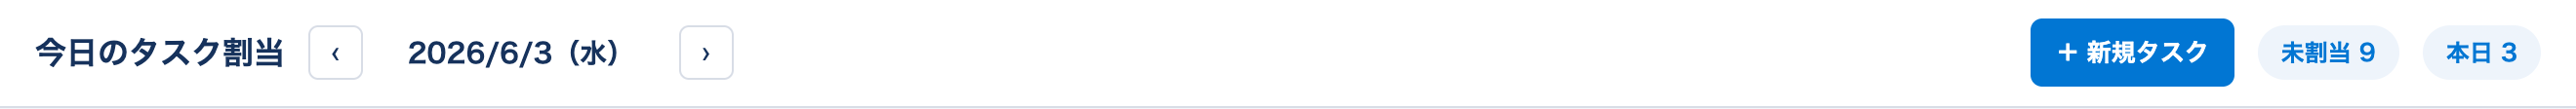
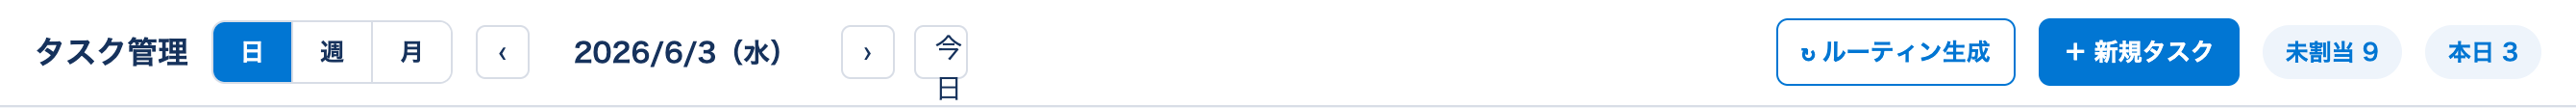
デモ拡張＋マニュアル更新: 週/月ビュー・ルーティン生成を反映
- index.html: 日/週/月切替、週ビュー、月ビュー、ルーティン生成ボタンを追加
- manual.html / manual-images: 週・月ビュー・ルーティンのスクショと手順を反映
- 繰り返しタスクを「実装済み」に更新

diff --git a/index.html b/index.html
@@ -126,6 +126,51 @@
     .panel-body.tl-body{max-height:70vh;}
     .panel-head .hint{display:none;}
   }
+  /* ===== ビュー切替 ===== */
+  .view-toggle{display:inline-flex;border:1px solid var(--line);border-radius:7px;overflow:hidden;}
+  .vbtn{border:none;background:#fff;color:var(--ink);padding:6px 14px;font-size:12.5px;font-weight:700;cursor:pointer;border-right:1px solid var(--line);}
+  .vbtn:last-child{border-right:none;}
+  .vbtn.active{background:var(--accent);color:#fff;}
+  .today-btn{border:1px solid var(--line);background:#fff;border-radius:5px;padding:0 10px;height:28px;font-size:12px;cursor:pointer;color:var(--ink);margin-left:4px;}
+  /* ===== 週ビュー ===== */
+  .weekwrap{display:grid;grid-template-columns:repeat(7,1fr);gap:8px;padding:14px 18px;}
+  .wk-col{background:#fff;border:1px solid var(--line);border-radius:8px;overflow:hidden;min-height:220px;display:flex;flex-direction:column;}
+  .wk-col.wknd{background:#fcfdff;}
+  .wk-head{padding:7px 8px;border-bottom:1px solid var(--line);background:#fafcfe;cursor:pointer;text-align:center;}
+  .wk-head.today{background:var(--accent);color:#fff;}
+  .wk-head.wknd .wk-wd{color:var(--p1);}
+  .wk-wd{font-size:11px;font-weight:700;margin-right:4px;}
+  .wk-d{font-size:13px;font-weight:800;}
+  .wk-total{display:block;font-size:10.5px;color:var(--muted);margin-top:2px;}
+  .wk-head.today .wk-total{color:#e6f0fb;}
+  .wk-body{padding:6px;display:flex;flex-direction:column;gap:6px;overflow-y:auto;max-height:62vh;}
+  .wk-empty{color:#c4cdd9;text-align:center;font-size:18px;padding:10px 0;}
+  .wk-task{border:1px solid var(--line);border-left:4px solid var(--accent);border-radius:6px;padding:5px 7px;background:#fff;}
+  .wk-task.p1{border-left-color:var(--p1);} .wk-task.p2{border-left-color:var(--p2);} .wk-task.p3{border-left-color:var(--p3);}
+  .wk-task.done{opacity:.6;} .wk-task.running{box-shadow:0 0 0 2px rgba(11,122,59,.35);}
+  .wk-time{font-size:10px;color:var(--muted);font-weight:600;}
+  .wk-title{font-size:12px;font-weight:700;line-height:1.25;margin:1px 0;}
+  .wk-task.done .wk-title{text-decoration:line-through;}
+  .wk-sub{font-size:10px;color:var(--accent);white-space:nowrap;overflow:hidden;text-overflow:ellipsis;}
+  /* ===== 月ビュー ===== */
+  .monthwrap{padding:14px 18px;}
+  .m-dow{display:grid;grid-template-columns:repeat(7,1fr);gap:6px;margin-bottom:6px;}
+  .m-dow-c{text-align:center;font-size:11.5px;font-weight:700;color:var(--muted);}
+  .m-dow-c:nth-child(6),.m-dow-c:nth-child(7){color:var(--p1);}
+  .m-week{display:grid;grid-template-columns:repeat(7,1fr);gap:6px;margin-bottom:6px;}
+  .mcell{background:#fff;border:1px solid var(--line);border-radius:7px;min-height:96px;padding:5px 6px;cursor:pointer;display:flex;flex-direction:column;gap:2px;}
+  .mcell.out{background:#f7f9fc;color:#aab4c2;}
+  .mcell.wknd{background:#fcfdff;}
+  .mcell.today{border-color:var(--accent);box-shadow:inset 0 0 0 1px var(--accent);}
+  .m-top{display:flex;justify-content:space-between;align-items:center;}
+  .m-day{font-size:12.5px;font-weight:800;}
+  .mcell.out .m-day{font-weight:600;}
+  .m-cnt{font-size:10px;color:var(--accent);font-weight:700;}
+  .m-hrs{font-size:10px;color:var(--muted);}
+  .mi{font-size:10px;line-height:1.3;white-space:nowrap;overflow:hidden;text-overflow:ellipsis;padding-left:6px;border-left:3px solid var(--accent);border-radius:2px;}
+  .mi.p1{border-left-color:var(--p1);} .mi.p2{border-left-color:var(--p2);} .mi.p3{border-left-color:var(--p3);}
+  .m-more{font-size:9.5px;color:var(--muted);}
+  @media (max-width:840px){ .weekwrap{grid-template-columns:1fr;} .mcell{min-height:60px;} .mi{display:none;} }
 </style>
 </head>
 <body>
@@ -138,16 +183,23 @@
 </header>
 
 <div class="toolbar">
-  <h1>今日のタスク割当</h1>
+  <h1>タスク管理</h1>
+  <div class="view-toggle">
+    <button class="vbtn active" id="vbDay" onclick="setView('day')">日</button>
+    <button class="vbtn" id="vbWeek" onclick="setView('week')">週</button>
+    <button class="vbtn" id="vbMonth" onclick="setView('month')">月</button>
+  </div>
   <div class="date-nav">
-    <button onclick="shiftDay(-1)">‹</button>
+    <button onclick="shiftPeriod(-1)">‹</button>
     <span class="cur" id="curDate"></span>
-    <button onclick="shiftDay(1)">›</button>
+    <button onclick="shiftPeriod(1)">›</button>
+    <button class="today-btn" onclick="goToday()">今日</button>
   </div>
   <span class="spacer"></span>
+  <button class="btn ghost" id="routineBtn" onclick="routineGenerate()">↻ ルーティン生成</button>
   <button class="btn" onclick="openNew()">＋ 新規タスク</button>
-  <span class="pill">未割当 <b id="pillUnassigned">0</b></span>
-  <span class="pill">本日 <b id="pillToday">0</b></span>
+  <span class="pill" id="pillU">未割当 <b id="pillUnassigned">0</b></span>
+  <span class="pill" id="pillT">本日 <b id="pillToday">0</b></span>
 </div>
 
 <div class="wrap">
@@ -196,6 +248,9 @@
     </div>
   </section>
 </div>
+<div class="weekwrap" id="weekView" style="display:none"></div>
+<div class="monthwrap" id="monthView" style="display:none"></div>
+
 <div class="note">※ 仕様合意用のモックアップです（サンプルデータ・Salesforce未接続）。①開始/中断/完了 ②新規登録 ③種別ソート ④複製 ⑤0.25h単位 ⑥時間長さ表示 を反映。スマホでもスケジュールが縦に表示され、カードの「時刻」から割当できます（ドラッグはPC推奨）。</div>
 
 <!-- 新規タスク モーダル -->
@@ -244,6 +299,17 @@ let tasks=[
   mk("顧問先への月次報告メール","鈴木リース株式会社","資料作成","社内",2,0.5,null,null),
   mk("源泉所得税の納付確認","山田商事株式会社","月次監査","社内",1,0.25,null,null),
   mk("定例ミーティング（社内）","加納経営事務所","会議","会議",2,0.5,null,null),
+  // --- 週/月ビュー用：同月の他日付に割当 ---
+  mk("月次監査 B社","佐藤工務店","月次監査","社内",1,1.5,"2026-06-02",9.0),
+  mk("給与振込の準備","田中製作所","給与計算","社内",2,1.0,"2026-06-02",13.0),
+  mk("決算打合せ","株式会社グリーンフーズ","決算準備","会議",1,1.0,"2026-06-04",10.0),
+  mk("C社へ訪問","鈴木リース株式会社","訪問","外出",2,2.0,"2026-06-04",14.0),
+  mk("記帳代行 まとめ","佐藤工務店","記帳代行","社内",2,1.5,"2026-06-05",9.5),
+  mk("源泉所得税の納付","山田商事株式会社","月次監査","社内",1,0.5,"2026-06-05",15.0),
+  mk("月初の入金確認","株式会社グリーンフーズ","記帳代行","社内",2,0.75,"2026-06-01",9.0),
+  mk("資料作成（翌週）","鈴木リース株式会社","資料作成","社内",3,1.0,"2026-06-10",11.0),
+  mk("月次報告（翌週）","田中製作所","資料作成","会議",2,1.0,"2026-06-12",13.0),
+  mk("月末決算チェック","山田商事株式会社","決算準備","社内",1,2.0,"2026-06-25",10.0),
 ];
 function mk(title,acct,work,type,pri,est,date,start){
   return {id:seq++,title,acct,work,type,pri,estPlan:est,assignedDate:date,start,
@@ -268,8 +334,64 @@ function init(){
 const WD=["日","月","火","水","木","金","土"];
 function parseKey(k){const[y,m,d]=k.split('-').map(Number);return new Date(y,m-1,d);}
 function fmtKey(dt){const m=String(dt.getMonth()+1).padStart(2,'0'),d=String(dt.getDate()).padStart(2,'0');return `${dt.getFullYear()}-${m}-${d}`;}
-function shiftDay(n){const dt=parseKey(curKey);dt.setDate(dt.getDate()+n);curKey=fmtKey(dt);renderDate();render();}
-function renderDate(){const dt=parseKey(curKey);document.getElementById('curDate').textContent=`${dt.getFullYear()}/${dt.getMonth()+1}/${dt.getDate()}（${WD[dt.getDay()]}）`;}
+let viewMode='day';
+function mondayOf(dt){const d=new Date(dt);d.setHours(0,0,0,0);const dow=(d.getDay()+6)%7;d.setDate(d.getDate()-dow);return d;}
+function setView(m){viewMode=m;document.querySelectorAll('.vbtn').forEach(b=>b.classList.remove('active'));document.getElementById(m==='day'?'vbDay':m==='week'?'vbWeek':'vbMonth').classList.add('active');render();}
+function goToday(){curKey=TODAY;render();}
+function shiftPeriod(n){const dt=parseKey(curKey);if(viewMode==='week')dt.setDate(dt.getDate()+n*7);else if(viewMode==='month')dt.setMonth(dt.getMonth()+n);else dt.setDate(dt.getDate()+n);curKey=fmtKey(dt);render();}
+function renderDate(){
+  const dt=parseKey(curKey);let label;
+  if(viewMode==='week'){const ws=mondayOf(dt),we=new Date(ws);we.setDate(we.getDate()+6);
+    label=`${ws.getFullYear()}/${ws.getMonth()+1}/${ws.getDate()}（${WD[ws.getDay()]}）– ${we.getMonth()+1}/${we.getDate()}（${WD[we.getDay()]}）`;}
+  else if(viewMode==='month'){label=`${dt.getFullYear()}年${dt.getMonth()+1}月`;}
+  else{label=`${dt.getFullYear()}/${dt.getMonth()+1}/${dt.getDate()}（${WD[dt.getDay()]}）`;}
+  document.getElementById('curDate').textContent=label;
+}
+const ST_MAP={todo:{cls:'todo',label:'未着手'},running:{cls:'running',label:'実行中'},paused:{cls:'paused',label:'中断中'},done:{cls:'done',label:'完了'}};
+function renderWeek(){
+  const ws=mondayOf(parseKey(curKey));const cont=document.getElementById('weekView');cont.innerHTML='';
+  for(let i=0;i<7;i++){
+    const d=new Date(ws);d.setDate(d.getDate()+i);const key=fmtKey(d);const wknd=d.getDay()===0||d.getDay()===6;
+    const list=tasks.filter(t=>t.assignedDate===key).sort((a,b)=>(a.start||0)-(b.start||0));
+    const total=list.reduce((s,t)=>s+(t.estPlan||0),0);
+    const col=document.createElement('div');col.className='wk-col'+(wknd?' wknd':'');
+    col.innerHTML=`<div class="wk-head${key===TODAY?' today':''}${wknd?' wknd':''}"><span class="wk-wd">${WD[d.getDay()]}</span><span class="wk-d">${d.getMonth()+1}/${d.getDate()}</span><span class="wk-total">${total>0?'計 '+total.toFixed(2)+'h':''}</span></div>`;
+    const body=document.createElement('div');body.className='wk-body';
+    if(!list.length)body.innerHTML='<div class="wk-empty">—</div>';
+    list.forEach(t=>{const st=ST_MAP[t.status]||ST_MAP.todo;const c=document.createElement('div');
+      c.className='wk-task p'+t.pri+(t.status==='done'?' done':'')+(t.status==='running'?' running':'');
+      c.innerHTML=`<div class="wk-time">${fmtHour(t.start)}〜${fmtHour(t.start+t.estPlan)}</div><div class="wk-title">${esc(t.title)}</div><div class="wk-sub">${esc(t.acct)}</div><span class="s-status st-${st.cls}">${st.label}</span>`;
+      body.appendChild(c);});
+    col.appendChild(body);cont.appendChild(col);
+  }
+}
+function renderMonth(){
+  const anchor=parseKey(curKey);const first=new Date(anchor.getFullYear(),anchor.getMonth(),1);const last=new Date(anchor.getFullYear(),anchor.getMonth()+1,0);
+  const gridStart=mondayOf(first);const gridEnd=mondayOf(last);gridEnd.setDate(gridEnd.getDate()+7);
+  const cont=document.getElementById('monthView');cont.innerHTML='';
+  const dh=document.createElement('div');dh.className='m-dow';["月","火","水","木","金","土","日"].forEach(h=>{const c=document.createElement('div');c.className='m-dow-c';c.textContent=h;dh.appendChild(c);});cont.appendChild(dh);
+  const cur=new Date(gridStart);
+  while(cur<gridEnd){
+    const wk=document.createElement('div');wk.className='m-week';
+    for(let i=0;i<7;i++){
+      const key=fmtKey(cur);const inMonth=cur.getMonth()===anchor.getMonth();const wknd=cur.getDay()===0||cur.getDay()===6;
+      const list=tasks.filter(t=>t.assignedDate===key).sort((a,b)=>(a.start||0)-(b.start||0));
+      const hrs=list.reduce((s,t)=>s+(t.estPlan||0),0);
+      const items=list.slice(0,3).map(t=>`<div class="mi p${t.pri}">${fmtHour(t.start)} ${esc(t.title)}</div>`).join('');
+      const more=list.length>3?`<div class="m-more">他 ${list.length-3}件</div>`:'';
+      const cell=document.createElement('div');cell.className='mcell'+(inMonth?'':' out')+(key===TODAY?' today':'')+(wknd?' wknd':'');
+      cell.innerHTML=`<div class="m-top"><span class="m-day">${cur.getDate()}</span><span class="m-cnt">${list.length>0?list.length+'件':''}</span></div><div class="m-hrs">${hrs>0?hrs.toFixed(1)+'h':''}</div>${items}${more}`;
+      wk.appendChild(cell);cur.setDate(cur.getDate()+1);
+    }
+    cont.appendChild(wk);
+  }
+}
+function routineGenerate(){
+  if(tasks.some(t=>t._routine)){alert('本日のルーティンは生成済みです（重複は自動スキップ）');return;}
+  const a=mk('入金処理（毎日）','株式会社グリーンフーズ','記帳代行','社内',2,0.5,null,null);a._routine=true;tasks.push(a);
+  const b=mk('日次残高チェック（毎日）','山田商事株式会社','月次監査','社内',1,0.25,null,null);b._routine=true;tasks.push(b);
+  render();alert('ルーティン生成: 2件のタスクを生成しました');
+}
 
 // ===== 時刻ユーティリティ =====
 function fmtHour(h){const hh=Math.floor(h+1e-6);const mm=Math.round((h-hh)*60);return `${hh}:${String(mm).padStart(2,'0')}`;}
@@ -277,6 +399,14 @@ function snap(h){return Math.round(h/STEP)*STEP;}
 
 // ===== レンダリング =====
 function render(){
+  renderDate();
+  const dayEl=document.querySelector('.wrap'), wkEl=document.getElementById('weekView'), moEl=document.getElementById('monthView');
+  dayEl.style.display=viewMode==='day'?'':'none';
+  wkEl.style.display=viewMode==='week'?'':'none';
+  moEl.style.display=viewMode==='month'?'':'none';
+  ['pillU','pillT','routineBtn'].forEach(id=>{const el=document.getElementById(id);if(el)el.style.display=viewMode==='day'?'':'none';});
+  if(viewMode==='week'){renderWeek();return;}
+  if(viewMode==='month'){renderMonth();return;}
   renderLeft(); renderTimeline(); renderSummary();
   // 左リストへドロップ（割当解除）
   const lb=document.getElementById('leftBody');